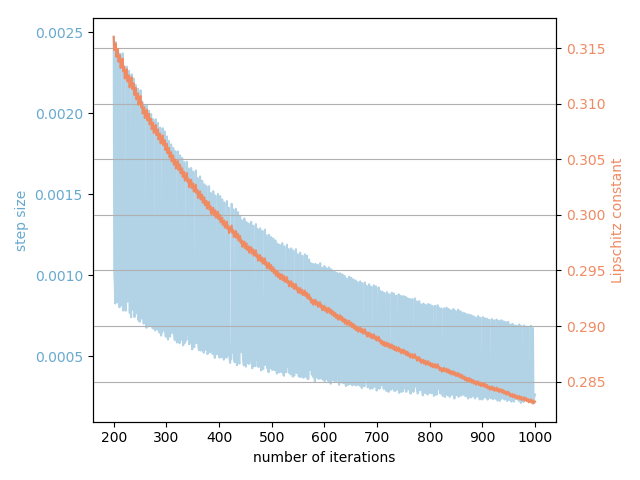
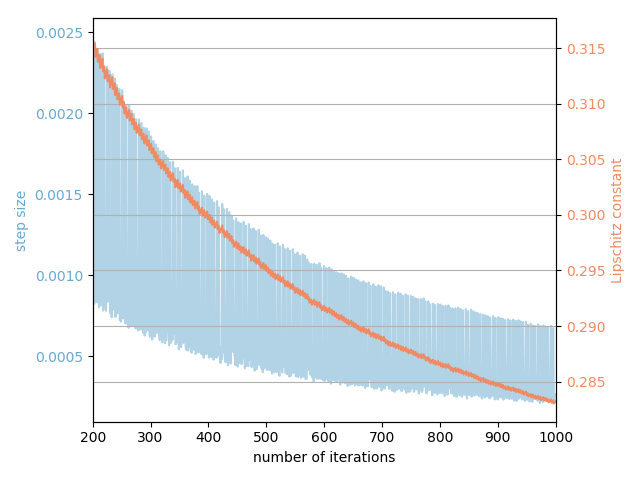
update doc

diff --git a/searchindex.js b/searchindex.js
@@ -1,1 +1,1 @@
-Search.setIndex({docnames:["auto_examples/index","auto_examples/plot_accelerated","auto_examples/plot_fw_stepsize","auto_examples/plot_group_lasso","auto_examples/plot_overlapping_group_lasso","auto_examples/plot_saga_vs_svrg","auto_examples/plot_sparse_nuclear_norm","auto_examples/plot_tv_deblurring","datasets","frank_wolfe","generated/copt.datasets.load_covtype","generated/copt.datasets.load_img1","generated/copt.datasets.load_rcv1","generated/copt.datasets.load_url","generated/copt.minimize_APGD","generated/copt.minimize_FW","generated/copt.minimize_PDHG","generated/copt.minimize_PFW_L1","generated/copt.minimize_PGD","generated/copt.minimize_SAGA","generated/copt.minimize_SVRG","generated/copt.minimize_TOS","generated/copt.minimize_VRTOS","generated/copt.utils.GroupL1","generated/copt.utils.HuberLoss","generated/copt.utils.L1Ball","generated/copt.utils.L1Norm","generated/copt.utils.LogLoss","generated/copt.utils.SquareLoss","generated/copt.utils.TotalVariation2D","generated/copt.utils.TraceBall","generated/copt.utils.TraceNorm","incremental","index","loss_functions","proximal_gradient","proximal_splitting","source/copt","source/modules"],envversion:{"sphinx.domains.c":1,"sphinx.domains.changeset":1,"sphinx.domains.cpp":1,"sphinx.domains.javascript":1,"sphinx.domains.math":2,"sphinx.domains.python":1,"sphinx.domains.rst":1,"sphinx.domains.std":1,"sphinx.ext.intersphinx":1,"sphinx.ext.todo":1,sphinx:55},filenames:["auto_examples/index.rst","auto_examples/plot_accelerated.rst","auto_examples/plot_fw_stepsize.rst","auto_examples/plot_group_lasso.rst","auto_examples/plot_overlapping_group_lasso.rst","auto_examples/plot_saga_vs_svrg.rst","auto_examples/plot_sparse_nuclear_norm.rst","auto_examples/plot_tv_deblurring.rst","datasets.rst","frank_wolfe.rst","generated/copt.datasets.load_covtype.rst","generated/copt.datasets.load_img1.rst","generated/copt.datasets.load_rcv1.rst","generated/copt.datasets.load_url.rst","generated/copt.minimize_APGD.rst","generated/copt.minimize_FW.rst","generated/copt.minimize_PDHG.rst","generated/copt.minimize_PFW_L1.rst","generated/copt.minimize_PGD.rst","generated/copt.minimize_SAGA.rst","generated/copt.minimize_SVRG.rst","generated/copt.minimize_TOS.rst","generated/copt.minimize_VRTOS.rst","generated/copt.utils.GroupL1.rst","generated/copt.utils.HuberLoss.rst","generated/copt.utils.L1Ball.rst","generated/copt.utils.L1Norm.rst","generated/copt.utils.LogLoss.rst","generated/copt.utils.SquareLoss.rst","generated/copt.utils.TotalVariation2D.rst","generated/copt.utils.TraceBall.rst","generated/copt.utils.TraceNorm.rst","incremental.rst","index.rst","loss_functions.rst","proximal_gradient.rst","proximal_splitting.rst","source/copt.rst","source/modules.rst"],objects:{"":{copt:[37,0,0,"-"]},"copt.datasets":{load_covtype:[37,1,1,""],load_criteo:[37,1,1,""],load_img1:[37,1,1,""],load_kdd10:[37,1,1,""],load_kdd12:[37,1,1,""],load_madelon:[37,1,1,""],load_rcv1:[37,1,1,""],load_url:[37,1,1,""]},"copt.frank_wolfe":{max_active:[37,2,1,""],minimize_FW:[37,1,1,""],minimize_PFW_L1:[37,1,1,""]},"copt.proxgrad":{minimize_APGD:[37,1,1,""],minimize_PGD:[37,1,1,""]},"copt.randomized":{minimize_SAGA:[37,1,1,""],minimize_SVRG:[37,1,1,""],minimize_VRTOS:[37,1,1,""]},"copt.splitting":{minimize_PDHG:[37,1,1,""],minimize_TOS:[37,1,1,""]},"copt.tv_prox":{c_prox_tv2d:[37,1,1,""],prox_tv1d:[37,1,1,""],prox_tv1d_cols:[37,2,1,""],prox_tv1d_rows:[37,2,1,""],prox_tv2d:[37,1,1,""],tv2d_linear_operator:[37,1,1,""]},"copt.utils":{FusedLasso:[37,3,1,""],GroupL1:[37,3,1,""],HuberLoss:[37,3,1,""],L1Ball:[37,3,1,""],L1Norm:[37,3,1,""],LogLoss:[37,3,1,""],SimplexConstraint:[37,3,1,""],SquareLoss:[37,3,1,""],TotalVariation2D:[37,3,1,""],Trace:[37,3,1,""],TraceBall:[37,3,1,""],TraceNorm:[37,3,1,""],euclidean_proj_l1ball:[37,1,1,""],euclidean_proj_simplex:[37,1,1,""],get_max_lipschitz:[37,1,1,""],init_lipschitz:[37,1,1,""],safe_sparse_add:[37,1,1,""]},"copt.utils.FusedLasso":{prox:[37,4,1,""],prox_1_factory:[37,4,1,""],prox_2_factory:[37,4,1,""]},"copt.utils.GroupL1":{__init__:[23,4,1,""],prox:[37,4,1,""],prox_factory:[37,4,1,""]},"copt.utils.HuberLoss":{__init__:[24,4,1,""],f_grad:[37,4,1,""],lipschitz:[37,2,1,""]},"copt.utils.L1Ball":{__init__:[25,4,1,""],lmo:[37,4,1,""],prox:[37,4,1,""]},"copt.utils.L1Norm":{__init__:[26,4,1,""],prox:[37,4,1,""],prox_factory:[37,4,1,""]},"copt.utils.LogLoss":{Hessian:[37,4,1,""],__init__:[27,4,1,""],f_grad:[37,4,1,""],lipschitz:[37,2,1,""],max_lipschitz:[37,2,1,""],partial_deriv:[37,2,1,""]},"copt.utils.SimplexConstraint":{prox:[37,4,1,""]},"copt.utils.SquareLoss":{__init__:[28,4,1,""],f_grad:[37,4,1,""],lipschitz:[37,2,1,""]},"copt.utils.TotalVariation2D":{__init__:[29,4,1,""],prox:[37,4,1,""]},"copt.utils.TraceBall":{__init__:[30,4,1,""],is_separable:[37,2,1,""],lmo:[37,4,1,""],prox:[37,4,1,""],prox_factory:[37,4,1,""]},"copt.utils.TraceNorm":{__init__:[31,4,1,""],is_separable:[37,2,1,""],prox:[37,4,1,""],prox_factory:[37,4,1,""]},copt:{datasets:[37,0,0,"-"],frank_wolfe:[37,0,0,"-"],minimize_APGD:[14,1,1,""],minimize_FW:[15,1,1,""],minimize_PDHG:[16,1,1,""],minimize_PFW_L1:[17,1,1,""],minimize_PGD:[18,1,1,""],minimize_SAGA:[19,1,1,""],minimize_SVRG:[20,1,1,""],minimize_TOS:[21,1,1,""],minimize_VRTOS:[22,1,1,""],proxgrad:[37,0,0,"-"],randomized:[37,0,0,"-"],splitting:[37,0,0,"-"],tv_prox:[37,0,0,"-"],utils:[37,0,0,"-"]}},objnames:{"0":["py","module","Python module"],"1":["py","function","Python function"],"2":["py","attribute","Python attribute"],"3":["py","class","Python class"],"4":["py","method","Python method"]},objtypes:{"0":"py:module","1":"py:function","2":"py:attribute","3":"py:class","4":"py:method"},terms:{"35th":[21,37],"67a9cf":2,"boolean":[14,15,16,18,19,20,21,22,37],"break":[19,20,37],"case":[5,37],"class":[23,24,25,26,27,28,29,30,31,37],"default":37,"float":[7,14,15,18,19,20,21,22,23,26,37],"function":[1,3,5,14,15,16,18,19,20,21,22,25,27,37],"import":[1,2,3,4,5,6,7,14,15,16,18,19,20,21,22,37],"int":[6,14,16,18,19,20,21,22,37],"return":[2,3,4,6,7,10,12,13,14,15,16,18,19,20,21,22,27,37],"true":[3,4,6,7,12,13,14,15,16,17,18,19,20,21,22,37],TOS:[4,6],The:[3,5,14,15,16,18,19,20,21,22,27,37],These:[33,37],With:[21,37],__call__:[],__doc__:6,__init__:[23,24,25,26,27,28,29,30,31],a_i:[19,20,22,37],aaron:[20,37],abov:[15,37],abs:[6,7,37],absolut:[25,26,37],acceler:[0,14,33,37],accept:[15,16,37],access:[14,15,18,19,34,37],account:5,accur:[23,24,25,26,27,28,29,30,31],achiev:[3,4,6],adapt:[4,7,15,21,37],adato:7,advanc:[19,20,37],after:4,aka:[30,31,37],algebra:37,algorithm:[2,5,14,15,16,18,19,20,21,22,37],all:0,all_beta:[3,4,6,7],all_trace_l:[3,4,6,7],all_trace_ls_tim:[4,6,7],all_trace_nol:[3,4,6,7],all_trace_nols_tim:[4,6,7],all_trace_pdhg:[4,6,7],all_trace_pdhg_nol:[4,6],all_trace_pdhg_nols_tim:[4,6],all_trace_pdhg_tim:[4,6,7],along:37,alpha:[2,14,16,17,19,20,21,22,23,24,25,26,27,28,29,30,31,37],alreadi:[2,34],also:37,altern:37,alvaro:37,amir:[14,18,37],analysi:[21,37],antonin:[16,37],api:[17,19,33,37],appear:37,append:[2,3,4,6,7],appendix:4,appli:37,applic:[14,16,18,21,37],arang:[2,3,4,5],arg:[21,37],argmin_:[15,20,22,37],argmin_x:37,argument:[15,16,18,21,37],arrai:[3,4,6,7,10,12,13,14,15,16,18,19,20,21,22,37],art:33,arxiv:[15,22,37],astyp:[6,7],asynchron:[20,22,37],attribut:[14,15,16,18,19,20,21,22,24,27,28,30,31,37],augment:[19,20,37],auto_examples_jupyt:0,auto_examples_python:0,averag:[19,20,37],ax1:2,ax2:2,axes:2,axi:[2,7],b_i:[19,20,22,27,37],bach:[20,37],backtrack:[1,2,3,4,6,7,14,15,16,17,18,21,37],backtracking_factor:[14,18,21,37],ball:[17,25,37],barbero:37,barrier:[19,20,37],base:[14,18,37],bbox_to_anchor:[3,6],beck:[14,18,37],below:[19,20,22,37],berkelei:37,beta:[3,4,6,7,16,20,37],better:37,between:[4,5],bianp:[27,37],binari:[10,12,13,37],blck:6,block:[4,6,23,37],blur:7,blur_matrix:7,bold:[1,5],bool:[10,12,13,19,20,22,37],bottom:[3,4,6,7],bound:2,bridg:37,c_prox_tv2d:37,call:[],callabl:[14,15,16,18,21,27,37],callback:[1,2,3,4,5,6,7,14,15,16,17,18,19,20,21,22,37],can:[19,20,21,22,37],casotto:[22,37],categor:33,caus:[14,15,16,18,19,20,21,22,37],cb_adato:7,cb_apgd:1,cb_pdhg:[4,7],cb_pdhg_nol:4,cb_pgd:1,cb_saga:5,cb_svrg:5,cb_to:[3,4,6,7],cb_tosl:[3,4,6],cdot:[28,37],center:[4,7],chambol:[16,37],chandra:37,chang:[17,19,37],check:[10,12,13,37],cjlin:[10,12,13,37],classif:[2,10,12,13,37],click:[1,2,3,4,5,6,7],clip:2,cmap:[6,7],code:[0,1,2,3,4,5,6,7],coeffici:[18,37],color:2,column:37,come:[27,37],commun:[14,18,37],compact:[15,37],comparison:[1,3,4,5,7],complex:37,composit:[16,19,20,37],comput:[3,4,5,6,7,37],condat:[16,37],confer:[21,37],constant:[2,15,26,37],constat:[23,37],construct:[1,2,3,5],contain:[33,37],content:38,conveni:34,converg:[1,16,19,20,22,37],convex:[14,15,16,18,20,37],copi:[],copt:[1,2,3,4,5,6,7],correl:4,cov:6,creat:4,criteo:37,criterion:[19,20,22,37],csie:[10,12,13,37],csr:[10,12,13,37],current:[15,18,37],d_t:2,damek:[21,37],data:[3,4,6,7,19,20,22,37],dataset:[1,2,4,5,20,38],davi:[21,37],debug:[19,20,22,37],def:[2,3,4,6,7],defazio:[20,37],defin:[2,15,27,28,34,37],delta:[24,37],denois:37,denot:37,densiti:3,depend:33,deploy:33,deprec:37,deriv:[20,22,27,28,37],derivatives_logist:[27,37],descent:[0,14,18,33,37],describ:[14,15,16,18,19,20,21,22,37],descript:[14,15,16,18,19,20,21,22,37],dev:[],diff:7,differ:[3,4,6,7,33],differenti:[14,15,37],dimens:37,dimension:[29,37],direct:37,disproportion:2,doe:37,dot:[3,4,6,7,27,37],dougla:37,download:[0,1,2,3,4,5,6,7,10,12,13,37],draft:[27,37],dual:[7,16,33,37],duchi:37,duchisishch08:37,dykstra:37,each:[14,16,18,21,37],easi:33,easili:37,edg:33,edu:[10,12,13,37],ef8a62:2,effect:0,effici:37,eigsh:2,ellipsi:[],emphasi:33,enter:3,enumer:[3,4,6,7],epsilon:6,equal:[25,37],ergod:[16,37],estim:[0,15,19,20,21,22,37],euclidean:[28,37],euclidean_proj_l1bal:37,euclidean_proj_simplex:37,evalu:[1,5,27,28,37],evolv:2,exact:2,exact_l:2,exampl:[1,2,3,4,5,6,7,18,37],exist:37,exit:[14,15,16,18,19,20,21,22,37],expect:33,experi:4,experiment:[17,19,37],extra:[19,20,21,22,37],eye:6,f_deriv:[19,20,22,37],f_grad:[1,2,3,4,6,7,14,15,16,17,18,21,37],f_l:2,fabian:[15,19,20,21,22,37],face:7,fals:[1,3,4,6,7,15,16,18,20,21,37],fast:[20,37],fatra:[22,37],featur:[2,3,4,6,17,37],few:33,fig:[2,3,4],figlegend:[3,4,6,7],file:[10,12,13,37],first:[2,4,16,37],fit_transform:4,flag:[14,15,16,18,19,20,21,22,37],fmin:[1,3,4,5,6,7],focu:2,follow:34,fontweight:[1,5],form:[14,15,16,18,19,20,21,22,37],found:[10,12,13,37],frac:[27,28,37],frameon:[3,4,6,7],franci:[20,37],frank:[2,15,33,37],frank_wolf:38,free:[15,37],freq:37,from:[2,3,4,6,7,14,16,18,19,20,21,22,27,37],full:[1,2,3,4,5,6,7,12,37],fuse:37,fusedlasso:37,g_prox:7,galleri:[0,1,2,3,4,5,6,7],gamma:[2,37],gaussian_filt:7,gauthier:[21,37],gcf:[3,4,6,7],gener:[0,1,2,3,4,5,6,7,19,20,22,33,37],get_max_lipschitz:37,gidel:[21,37],given:[15,19,20,22,37],googl:[],gradient:[0,5,7,14,15,16,18,19,20,21,22,33,37],grai:7,gray_r:6,grid:[1,2,3,4,5,6,7],ground:3,ground_truth:[3,4],group:[0,18,23,37],groupl1:[3,4,37],guess:[14,15,16,18,21,37],h_lipschitz:[4,6,7,21,37],h_prox:7,handl:2,has:[20,37],have:[2,14,15,18,19,20,22,27,37],help:[23,24,25,26,27,28,29,30,31],here:[1,2,3,4,5,6,7],hessian:[2,27,37],high:37,higher:[20,22,37],home:[],how:2,howev:[34,37],html:[10,12,13,27,37],http:[10,12,13,27,37],huber:[24,37],huberloss:[6,37],hybrid:[7,16,33,37],icml:[15,37],ieee:37,imag:[7,11,37],img:7,implement:[3,5,20,33,37],improv:[1,20,37],imres:7,imshow:[6,7],increment:[20,37],indexerror:[],indic:[14,15,16,18,19,20,21,22,25,37],infin:[25,37],inform:[19,20,37],init_lipschitz:37,initi:[14,15,16,18,21,23,24,25,26,27,28,29,30,31,37],input:[15,27,37],insid:[16,37],instanti:2,integ:[],intern:[21,37],interpol:[6,7],involv:[16,37],ipynb:[1,2,3,4,5,6,7],is_separ:37,iter:[2,3,4,5,6,7,14,15,16,18,21,37],its:[3,15,19,21,33,37],jaggi:[15,37],jduchi:37,john:37,journal:[16,37],julien:[19,20,37],jupyt:[0,1,2,3,4,5,6,7],kdd10:37,kdd12:37,kdd2010:37,kdd2012:37,kilian:[22,37],known:[16,21,37],l1_ball:2,l1ball:[2,37],l1norm:[5,6,37],label:[1,2,4,5,10,12,13,27,37],labelcolor:2,lacost:[19,20,37],lambda:[3,4,5,6,7],langl:[15,37],larg:[2,33],lasso:[0,18,23,37],last:2,laurent:[16,37],learn:[21,37],least:4,leblond:[19,20,37],legend:[1,5],len:[2,4,5,6],leq:[27,37],less:[25,37],letter:37,level:[14,16,18,19,20,21,22,37],librari:33,libsvm:[10,12,13,37],libsvmtool:[10,12,13,37],like:[14,15,16,17,18,19,20,21,37],linalg:[2,6,7],line:[2,3,4,6,14,18,21,37],linear:[15,16,25,37],linearli:[19,37],linearoper:2,lipschitz:[1,2,3,4,6,7,15,37],lipschitzian:[16,37],list:[23,37],lmo:[2,15,25,37],load:[11,37],load_covtyp:37,load_criteo:37,load_img1:37,load_kdd10:37,load_kdd12:37,load_madelon:37,load_npz:7,load_rcv1:37,load_url:37,loc:[3,6],local:[],log:[1,3,4,5,6,7,27,37],logist:[1,5,27,37],logloss:[1,2,4,5,37],logspac:4,loss:[3,4,6,7,14,19,23,24,27,28,37],low:0,lower:[4,7],ls_sol:2,machin:[21,37],madelon:37,make:4,make_classif:2,mani:37,map:[19,20,22,37],marc:[14,18,37],marker:[3,4,6,7],markers:[3,4,6,7],markeveri:[3,4,6,7],martin:[15,37],mathcal:[15,37],mathemat:[16,33,37],matplotlib:2,matri:37,matrix:[0,4,10,12,13,16,37],mattia:[22,37],matvec:2,max:[4,7,37],max_act:37,max_it:[2,3,4,5,6,7,14,15,16,17,18,19,20,21,22,29,37],max_iter_backtrack:[14,18,21,37],max_iter_l:[16,37],max_lipschitz:[5,37],maximum:[14,16,18,19,20,21,22,37],maxit:[6,7],md5:[10,12,13,37],md5_check:[10,12,13,37],member:[19,20,22,37],messag:[14,15,16,18,19,20,21,22,37],method:[2,5,15,16,19,20,21,22,23,24,25,26,27,28,29,30,31,33,37],might:[19,20,22,37],million:37,min:[1,3,4,5,6,7],min_:[25,37],min_w:37,minim:[15,37],minimize_apgd:[1,37],minimize_fw:[2,37],minimize_pdhg:[4,7,37],minimize_pfw_l1:37,minimize_pgd:[1,3,37],minimize_saga:[5,37],minimize_scalar:2,minimize_svrg:[5,37],minimize_to:[4,6,7,37],minimize_vrto:37,minimize_x:[14,16,18,19,21,37],minu:[3,4,6,7],minut:[1,2,3,4,5,6,7],misc:7,model:4,modul:38,modular:[33,37],most:[],multidimension:37,multipli:[5,6,23,26,37],multivariate_norm:6,n_col:[7,11,37],n_featur:[1,2,3,4,5,6,7,17,18,37],n_job:[20,22,37],n_row:[7,11,37],n_sampl:[1,2,3,4,5,6,7,19,20,22,37],ncol:[3,4,6,7],ndarrai:[16,19,20,22,37],ndimag:7,nearest:[6,7],net:[27,37],neural:[19,20,37],newaxi:[],nip:[19,20,37],noisi:7,non:[16,20,21,34,37],none:[3,4,6,7,14,15,16,17,18,19,20,21,22,37],nonsmooth:[19,20,22,37],nonzero:3,norm:[5,19,20,22,26,28,29,30,31,37],note:[15,37],notebook:[0,1,2,3,4,5,6,7],npz:7,ntu:[10,12,13,37],nuclear:[30,31,37],number:[2,5,14,16,18,19,20,21,22,37],numpi:[1,2,3,4,5,6,7,10,12,13,37],object:[3,4,5,6,7,14,15,16,18,19,20,21,22,37],often:37,one:37,onli:[10,12,13,15,16,21,37],onto:[30,37],oper:[3,4,7,14,16,18,19,21,22,33,34,37],opt:[19,20,22,33,37],optim:[1,2,3,5,14,15,16,18,19,20,21,22,37],optimis:37,optimizeresult:[14,15,16,18,19,20,21,22,37],optimum:[3,4,6,7],option:[14,15,16,18,19,20,21,22,37],oracl:[15,37],order:[16,37],org:37,origin:[20,37],other:[14,15,16,18,19,20,21,22,37],otherwis:[2,25,37],out:[2,3,4,6,7],out_img:[3,4,6,7],output:[14,16,18,21,37],over:[2,25,37],overlap:0,own:34,packag:38,pairwis:[17,33,37],parallel:[19,20,37],paramet:[3,4,6,7,10,12,13,14,15,16,18,19,20,21,22,23,26,37],parametr:[19,37],partial_deriv:[5,37],pass:[19,20,21,22,37],pdf:37,pdhg:4,pdhg_nol:4,pedregosa:[15,19,20,21,22,37],pen1:[22,37],pen2:[22,37],penalti:[23,37],perform:[14,18,21,27,33,37],pgd:3,pgd_l:3,plot:[1,2,3,4,5,6,7,19,20,22,37],plot_acceler:1,plot_fw_steps:2,plot_group_lasso:3,plot_nol:[3,4,6],plot_overlapping_group_lasso:4,plot_pdhg:[4,7],plot_pdhg_nol:4,plot_saga_vs_svrg:5,plot_sparse_nuclear_norm:6,plot_to:[3,4,6,7],plot_tos_nol:7,plot_tv_deblur:7,plt:[1,2,3,4,5,6,7],pock:[16,37],point:[19,20,22,37],posit:37,possibl:[16,21,34,37],preprint:[15,22,37],preprocess:4,primal:[7,16,33,37],print:[3,4,6,7,19,20,22,37],problem:[1,3,5,14,15,16,18,19,20,21,22,25,37],procedur:[14,18,21,37],proceed:[21,37],process:[14,18,19,20,37],product:[27,37],program:[16,37],progress:[5,33],project:[10,12,13,15,30,37],prox:[3,4,5,6,14,18,19,20,37],prox_1:[16,21,22,37],prox_1_arg:[21,37],prox_1_factori:37,prox_2:[16,21,22,37],prox_2_factori:37,prox_factori:[5,37],prox_tv1d:37,prox_tv1d_col:[7,37],prox_tv1d_row:[7,37],prox_tv2d:37,proxgrad:38,proxim:[3,14,16,18,19,21,33,34,37],pseudo:[29,37],pure:33,purpos:33,pylab:[1,2,3,4,5,6,7],python:[0,1,2,3,4,5,6,7,33],rachford:37,radiu:37,rand:[1,3,5,6],randint:4,randn:[1,3,4,5,6,7],random:[1,3,4,5,6,7,38],random_st:2,rang:[3,4,6],rangl:[15,37],rank:0,rate:[16,37],ravel:[6,7],rcv1:[12,37],readi:34,recent:[],recoveri:[14,18,37],reduc:[5,22,33,37],reduct:37,refer:[5,14,15,16,18,19,20,21,22,27,37],regress:[1,5],regular:[0,4,5,6,18,37],rel:[3,4,6],remi:[19,20,37],repres:[14,15,16,18,19,20,21,22,37],res:[14,15,16,18,21,37],reshap:[6,7],respect:[20,37],result:[1,3,4,5,6,7,14,15,16,18,19,20,21,22,37],result_apgd:1,result_pgd:1,result_saga:5,result_svrg:5,return_gradi:[15,16,21,37],return_singular_vector:[6,7],revisit:[15,37],right:2,rough:33,routin:[15,37],row:37,run:[1,2,3,4,5,6,7],safe_sparse_add:37,saga:[0,19,20,22,33,37],same:[2,15,37],sampl:[2,11,37],scalabl:[19,20,37],scalar:37,scale:[3,4,7,33,37],scatterpoint:[3,4,6,7],scheme:[21,37],scipi:[2,3,6,7,10,12,13,14,15,16,18,19,20,21,22,33,37],script:[1,2,3,4,5,6,7],search:[2,3,4,6,14,18,21,37],second:[1,2,3,4,5,6,7],see:[14,15,16,18,19,20,21,22,23,24,25,26,27,28,29,30,31,37],seed:[1,3,4,5,6,7],self:[23,24,25,26,27,28,29,30,31],set:[4,15,21,37],set_titl:[3,4,6,7],set_xlabel:[2,3,4,6,7],set_xlim:[4,6,7],set_xtick:[3,4,6,7],set_ylabel:[2,3,4,6,7],set_ylim:[3,4,6,7],set_yscal:[3,4,6,7],set_ytick:[3,4,6,7],shai:37,shalev:37,shape:[2,6,7,29,30,31,37],share:2,sharei:[3,4,6,7],should:[15,16,27,37],show:[1,2,3,4,5,6,7],showcas:1,shwartz:37,sigma:[3,6,27,37],sigma_2:6,sigma_hat:6,sigmoid:[27,37],sign:4,signal:[14,18,37],signatur:[23,24,25,26,27,28,29,30,31],similar:33,simon:[19,20,37],simplex:37,simplexconstraint:37,sinc:2,singer:37,singl:[18,37],singular:[30,31,37],size:[0,3,4,6,7,15,18,19,20,21,22,37],sklearn:[2,4],slice:[],slightli:2,smooth:[16,21,34,37],snapshot:5,solut:[14,15,16,18,19,20,21,22,37],solv:[5,14,18,19,20,21,22,25,37],solver:[3,4,6,7],some:[3,4,6,19,20,22,33,37],sometim:[5,37],sort:37,sourc:[0,1,2,3,4,5,6,7,10,11,12,13,14,15,16,17,18,19,20,21,22,23,24,25,26,27,28,29,30,31,37],spars:[0,2,3,5,7,10,12,13,15,16,20,37],sphinx:[0,1,2,3,4,5,6,7],splinalg:[2,6,7],split:[4,7,16,21,22,33,38],sqrt:4,squar:[4,28,37],squareloss:[3,7,37],sra:37,standardscal:4,start:[14,18,19,20,21,22,37],state:33,step:[0,3,4,6,7,15,19,20,21,22,37],step_siz:[1,2,3,4,5,6,7,14,16,18,19,20,21,22,37],step_size2:[4,7,16,37],stepsiz:37,still:37,stochast:[5,19,20,33,37],stop:[19,20,22,37],strategi:0,strongli:[20,37],submodul:38,suboptim:[1,5],subplot:[2,3,4,6,7],subplots_adjust:[3,4,6,7],subset:[12,37],success:[14,15,16,18,19,20,21,22,37],successfulli:[14,15,16,18,19,20,21,22,37],sum:[5,7,25,26,30,31,37],sum_:[19,20,22,27,37],sum_i:[26,37],support:[20,37],suvrit:37,svd:[6,7],svrg:[0,33],synthet:6,system:[19,20,37],take:[10,12,13,15,18,37],teboul:[14,18,37],tend:2,term:[16,34,37],termin:[14,15,16,18,19,20,21,22,37],than:[20,22,25,37],theori:[16,37],thi:[4,5,10,12,13,15,16,17,19,20,21,22,23,25,33,37],thoma:[16,37],thread:[20,22,37],three:[4,7,21,22,33,37],threshold:6,through:[3,19,20,22,34,37],tick_param:2,tight_layout:2,time:[1,2,3,4,5,6,7],titl:[1,5],tmp1:7,tmp2:7,toi:2,tol:[1,3,4,5,6,7,14,15,16,17,18,19,20,21,22,29,37],toler:[3,4,6,19,20,22,37],tos:[4,6],tos_l:[4,6],total:[0,1,2,3,4,5,6,29,37],totalvariation2d:37,trace:[1,3,4,5,6,7,19,20,22,30,31,37],trace_func:[19,20,22,37],trace_fx:[1,5],trace_l:[3,4,6,7],trace_lipschitz:2,trace_nol:[3,4,6,7],trace_pdhg:[4,7],trace_pdhg_nol:4,trace_step_s:2,trace_tim:[4,6,7,19,20,22,37],trace_x:[3,4,6,7],traceback:[],tracebal:37,tracenorm:[6,37],track:5,truth:3,tushar:37,tv2d_linear_oper:37,tv_prox:[7,38],twinx:2,two:[5,37],type:[14,15,16,18,19,20,21,22,23,24,25,26,27,28,29,30,31,37],url:[10,13,37],use:[20,22,34,37],useful:[19,20,22,37],using:37,usr:[],util:[1,2,3,4,5,6,7,38],valid:[],valu:[3,4,6,7,10,12,13,14,15,16,18,21,25,26,27,30,31,37],varianc:[5,22,33,37],variant:[19,33,37],variat:[0,21,29,37],vector:[3,15,27,37],verbos:[3,4,6,7,14,15,16,17,18,19,20,21,22,37],verifi:[27,37],version:[10,12,13,37],vrto:[22,37],w_i:37,when:[15,16,27,37],whenev:[19,20,22,37],where:[14,15,16,18,19,21,27,28,37],whether:[10,12,13,14,18,19,20,21,22,37],which:[3,14,15,16,18,19,20,21,22,37],without:[3,4,6],wolf:[2,15,33,37],work:33,wotao:[21,37],written:33,www:[10,12,13,37],x_i:[26,37],xlabel:[1,5],xlim:[1,3,4,5,6,7],xxx:[14,18,37],yin:[21,37],ylabel:[1,5],ylim:[1,5],ymin:[1,5],yoram:37,your:34,yscale:[1,5],zero:[1,2,3,4,5,6,7],zip:0},titles:["Examples","Effect of acceleration in gradient descent","Step-size strategies for FW","Group Lasso regularization","Group lasso with overlap","SAGA vs SVRG","Estimating a sparse and low rank matrix","Total variation regularization","Datasets","Frank-Wolfe","copt.datasets.load_covtype","copt.datasets.load_img1","copt.datasets.load_rcv1","copt.datasets.load_url","copt.minimize_APGD","copt.minimize_FW","copt.minimize_PDHG","copt.minimize_PFW_L1","copt.minimize_PGD","copt.minimize_SAGA","copt.minimize_SVRG","copt.minimize_TOS","copt.minimize_VRTOS","copt.utils.GroupL1","copt.utils.HuberLoss","copt.utils.L1Ball","copt.utils.L1Norm","copt.utils.LogLoss","copt.utils.SquareLoss","copt.utils.TotalVariation2D","copt.utils.TraceBall","copt.utils.TraceNorm","Incremental methods","Welcome to copt!","Loss functions","Gradient-based methods","Proximal splitting","copt package","copt"],titleterms:{"function":34,acceler:1,algorithm:33,base:35,content:37,copt:[10,11,12,13,14,15,16,17,18,19,20,21,22,23,24,25,26,27,28,29,30,31,33,37,38],dataset:[8,10,11,12,13,37],descent:1,effect:1,estim:6,exampl:0,frank:9,frank_wolf:37,gradient:[1,35],group:[3,4],groupl1:23,huberloss:24,increment:32,l1ball:25,l1norm:26,lasso:[3,4],load_covtyp:10,load_img1:11,load_rcv1:12,load_url:13,logloss:27,loss:34,low:6,matrix:6,method:[32,35],minimize_apgd:14,minimize_fw:15,minimize_pdhg:16,minimize_pfw_l1:17,minimize_pgd:18,minimize_saga:19,minimize_svrg:20,minimize_to:21,minimize_vrto:22,modul:37,optim:33,overlap:4,packag:37,philosophi:33,proxgrad:37,proxim:36,random:37,rank:6,refer:4,regular:[3,7],saga:5,size:2,spars:6,split:[36,37],squareloss:28,step:2,strategi:2,submodul:37,svrg:5,total:7,totalvariation2d:29,tracebal:30,tracenorm:31,tv_prox:37,util:[23,24,25,26,27,28,29,30,31,37],variat:7,welcom:33,wolf:9}})
+Search.setIndex({docnames:["auto_examples/index","auto_examples/plot_accelerated","auto_examples/plot_fw_stepsize","auto_examples/plot_group_lasso","auto_examples/plot_overlapping_group_lasso","auto_examples/plot_saga_vs_svrg","auto_examples/plot_sparse_nuclear_norm","auto_examples/plot_tv_deblurring","datasets","frank_wolfe","generated/copt.datasets.load_covtype","generated/copt.datasets.load_img1","generated/copt.datasets.load_rcv1","generated/copt.datasets.load_url","generated/copt.minimize_APGD","generated/copt.minimize_FW","generated/copt.minimize_PDHG","generated/copt.minimize_PFW_L1","generated/copt.minimize_PGD","generated/copt.minimize_SAGA","generated/copt.minimize_SVRG","generated/copt.minimize_TOS","generated/copt.minimize_VRTOS","generated/copt.utils.GroupL1","generated/copt.utils.HuberLoss","generated/copt.utils.L1Ball","generated/copt.utils.L1Norm","generated/copt.utils.LogLoss","generated/copt.utils.SquareLoss","generated/copt.utils.TotalVariation2D","generated/copt.utils.TraceBall","generated/copt.utils.TraceNorm","incremental","index","loss_functions","proximal_gradient","proximal_splitting","source/copt","source/modules"],envversion:{"sphinx.domains.c":1,"sphinx.domains.changeset":1,"sphinx.domains.cpp":1,"sphinx.domains.javascript":1,"sphinx.domains.math":2,"sphinx.domains.python":1,"sphinx.domains.rst":1,"sphinx.domains.std":1,"sphinx.ext.intersphinx":1,"sphinx.ext.todo":1,sphinx:55},filenames:["auto_examples/index.rst","auto_examples/plot_accelerated.rst","auto_examples/plot_fw_stepsize.rst","auto_examples/plot_group_lasso.rst","auto_examples/plot_overlapping_group_lasso.rst","auto_examples/plot_saga_vs_svrg.rst","auto_examples/plot_sparse_nuclear_norm.rst","auto_examples/plot_tv_deblurring.rst","datasets.rst","frank_wolfe.rst","generated/copt.datasets.load_covtype.rst","generated/copt.datasets.load_img1.rst","generated/copt.datasets.load_rcv1.rst","generated/copt.datasets.load_url.rst","generated/copt.minimize_APGD.rst","generated/copt.minimize_FW.rst","generated/copt.minimize_PDHG.rst","generated/copt.minimize_PFW_L1.rst","generated/copt.minimize_PGD.rst","generated/copt.minimize_SAGA.rst","generated/copt.minimize_SVRG.rst","generated/copt.minimize_TOS.rst","generated/copt.minimize_VRTOS.rst","generated/copt.utils.GroupL1.rst","generated/copt.utils.HuberLoss.rst","generated/copt.utils.L1Ball.rst","generated/copt.utils.L1Norm.rst","generated/copt.utils.LogLoss.rst","generated/copt.utils.SquareLoss.rst","generated/copt.utils.TotalVariation2D.rst","generated/copt.utils.TraceBall.rst","generated/copt.utils.TraceNorm.rst","incremental.rst","index.rst","loss_functions.rst","proximal_gradient.rst","proximal_splitting.rst","source/copt.rst","source/modules.rst"],objects:{"":{copt:[37,0,0,"-"]},"copt.datasets":{load_covtype:[37,1,1,""],load_criteo:[37,1,1,""],load_img1:[37,1,1,""],load_kdd10:[37,1,1,""],load_kdd12:[37,1,1,""],load_madelon:[37,1,1,""],load_rcv1:[37,1,1,""],load_url:[37,1,1,""]},"copt.frank_wolfe":{max_active:[37,2,1,""],minimize_FW:[37,1,1,""],minimize_PFW_L1:[37,1,1,""]},"copt.proxgrad":{minimize_APGD:[37,1,1,""],minimize_PGD:[37,1,1,""]},"copt.randomized":{minimize_SAGA:[37,1,1,""],minimize_SVRG:[37,1,1,""],minimize_VRTOS:[37,1,1,""]},"copt.splitting":{minimize_PDHG:[37,1,1,""],minimize_TOS:[37,1,1,""]},"copt.tv_prox":{c_prox_tv2d:[37,1,1,""],prox_tv1d:[37,1,1,""],prox_tv1d_cols:[37,2,1,""],prox_tv1d_rows:[37,2,1,""],prox_tv2d:[37,1,1,""],tv2d_linear_operator:[37,1,1,""]},"copt.utils":{FusedLasso:[37,3,1,""],GroupL1:[37,3,1,""],HuberLoss:[37,3,1,""],L1Ball:[37,3,1,""],L1Norm:[37,3,1,""],LogLoss:[37,3,1,""],SimplexConstraint:[37,3,1,""],SquareLoss:[37,3,1,""],TotalVariation2D:[37,3,1,""],Trace:[37,3,1,""],TraceBall:[37,3,1,""],TraceNorm:[37,3,1,""],euclidean_proj_l1ball:[37,1,1,""],euclidean_proj_simplex:[37,1,1,""],get_max_lipschitz:[37,1,1,""],init_lipschitz:[37,1,1,""],safe_sparse_add:[37,1,1,""]},"copt.utils.FusedLasso":{prox:[37,4,1,""],prox_1_factory:[37,4,1,""],prox_2_factory:[37,4,1,""]},"copt.utils.GroupL1":{__init__:[23,4,1,""],prox:[37,4,1,""],prox_factory:[37,4,1,""]},"copt.utils.HuberLoss":{__init__:[24,4,1,""],f_grad:[37,4,1,""],lipschitz:[37,2,1,""]},"copt.utils.L1Ball":{__init__:[25,4,1,""],lmo:[37,4,1,""],prox:[37,4,1,""]},"copt.utils.L1Norm":{__init__:[26,4,1,""],prox:[37,4,1,""],prox_factory:[37,4,1,""]},"copt.utils.LogLoss":{Hessian:[37,4,1,""],__init__:[27,4,1,""],f_grad:[37,4,1,""],lipschitz:[37,2,1,""],max_lipschitz:[37,2,1,""],partial_deriv:[37,2,1,""]},"copt.utils.SimplexConstraint":{prox:[37,4,1,""]},"copt.utils.SquareLoss":{__init__:[28,4,1,""],f_grad:[37,4,1,""],lipschitz:[37,2,1,""]},"copt.utils.TotalVariation2D":{__init__:[29,4,1,""],prox:[37,4,1,""]},"copt.utils.TraceBall":{__init__:[30,4,1,""],is_separable:[37,2,1,""],lmo:[37,4,1,""],prox:[37,4,1,""],prox_factory:[37,4,1,""]},"copt.utils.TraceNorm":{__init__:[31,4,1,""],is_separable:[37,2,1,""],prox:[37,4,1,""],prox_factory:[37,4,1,""]},copt:{datasets:[37,0,0,"-"],frank_wolfe:[37,0,0,"-"],minimize_APGD:[14,1,1,""],minimize_FW:[15,1,1,""],minimize_PDHG:[16,1,1,""],minimize_PFW_L1:[17,1,1,""],minimize_PGD:[18,1,1,""],minimize_SAGA:[19,1,1,""],minimize_SVRG:[20,1,1,""],minimize_TOS:[21,1,1,""],minimize_VRTOS:[22,1,1,""],proxgrad:[37,0,0,"-"],randomized:[37,0,0,"-"],splitting:[37,0,0,"-"],tv_prox:[37,0,0,"-"],utils:[37,0,0,"-"]}},objnames:{"0":["py","module","Python module"],"1":["py","function","Python function"],"2":["py","attribute","Python attribute"],"3":["py","class","Python class"],"4":["py","method","Python method"]},objtypes:{"0":"py:module","1":"py:function","2":"py:attribute","3":"py:class","4":"py:method"},terms:{"35th":[21,37],"67a9cf":2,"boolean":[14,15,16,18,19,20,21,22,37],"break":[19,20,37],"case":[5,37],"class":[23,24,25,26,27,28,29,30,31,37],"default":37,"float":[7,14,15,18,19,20,21,22,23,26,37],"function":[1,3,5,14,15,16,18,19,20,21,22,25,27,37],"import":[1,2,3,4,5,6,7,14,15,16,18,19,20,21,22,37],"int":[6,14,16,18,19,20,21,22,37],"return":[2,3,4,6,7,10,12,13,14,15,16,18,19,20,21,22,27,37],"true":[3,4,6,7,12,13,14,15,16,17,18,19,20,21,22,37],TOS:[4,6],The:[3,5,14,15,16,18,19,20,21,22,27,37],These:[33,37],With:[21,37],__call__:[],__doc__:6,__init__:[23,24,25,26,27,28,29,30,31],a_i:[19,20,22,37],aaron:[20,37],abov:[15,37],abs:[6,7,37],absolut:[25,26,37],acceler:[0,14,33,37],accept:[15,16,37],access:[14,15,18,19,34,37],account:5,accur:[23,24,25,26,27,28,29,30,31],achiev:[3,4,6],adapt:[4,7,15,21,37],adato:7,advanc:[19,20,37],after:4,aka:[30,31,37],algebra:37,algorithm:[2,5,14,15,16,18,19,20,21,22,37],all:0,all_beta:[3,4,6,7],all_trace_l:[3,4,6,7],all_trace_ls_tim:[4,6,7],all_trace_nol:[3,4,6,7],all_trace_nols_tim:[4,6,7],all_trace_pdhg:[4,6,7],all_trace_pdhg_nol:[4,6],all_trace_pdhg_nols_tim:[4,6],all_trace_pdhg_tim:[4,6,7],along:37,alpha:[2,14,16,17,19,20,21,22,23,24,25,26,27,28,29,30,31,37],alreadi:[2,34],also:37,altern:37,alvaro:37,amir:[14,18,37],analysi:[21,37],antonin:[16,37],api:[17,19,33,37],appear:37,append:[2,3,4,6,7],appendix:4,appli:37,applic:[14,16,18,21,37],arang:[2,3,4,5],arg:[21,37],argmin_:[15,20,22,37],argmin_x:37,argument:[15,16,18,21,37],arrai:[3,4,6,7,10,12,13,14,15,16,18,19,20,21,22,37],art:33,arxiv:[15,22,37],astyp:[6,7],asynchron:[20,22,37],attribut:[14,15,16,18,19,20,21,22,24,27,28,30,31,37],augment:[19,20,37],auto_examples_jupyt:0,auto_examples_python:0,averag:[19,20,37],ax1:2,ax2:2,axes:2,axi:[2,7],b_i:[19,20,22,27,37],bach:[20,37],backtrack:[1,2,3,4,6,7,14,15,16,17,18,21,37],backtracking_factor:[14,18,21,37],ball:[17,25,37],barbero:37,barrier:[19,20,37],base:[14,18,37],bbox_to_anchor:[3,6],beck:[14,18,37],below:[19,20,22,37],berkelei:37,beta:[3,4,6,7,16,20,37],better:37,between:[4,5],bianp:[27,37],binari:[10,12,13,37],blck:6,block:[4,6,23,37],blur:7,blur_matrix:7,bold:[1,5],bool:[10,12,13,19,20,22,37],bottom:[3,4,6,7],bound:2,bridg:37,c_prox_tv2d:37,call:[],callabl:[14,15,16,18,21,27,37],callback:[1,2,3,4,5,6,7,14,15,16,17,18,19,20,21,22,37],can:[19,20,21,22,37],casotto:[22,37],categor:33,caus:[14,15,16,18,19,20,21,22,37],cb_adato:7,cb_apgd:1,cb_pdhg:[4,7],cb_pdhg_nol:4,cb_pgd:1,cb_saga:5,cb_svrg:5,cb_to:[3,4,6,7],cb_tosl:[3,4,6],cdot:[28,37],center:[4,7],chambol:[16,37],chandra:37,chang:[17,19,37],check:[10,12,13,37],cjlin:[10,12,13,37],classif:[2,10,12,13,37],click:[1,2,3,4,5,6,7],clip:2,cmap:[6,7],code:[0,1,2,3,4,5,6,7],coeffici:[18,37],color:2,column:37,come:[27,37],commun:[14,18,37],compact:[15,37],comparison:[1,3,4,5,7],complex:37,composit:[16,19,20,37],comput:[3,4,5,6,7,37],condat:[16,37],confer:[21,37],constant:[2,15,26,37],constat:[23,37],construct:[1,2,3,5],contain:[33,37],content:38,conveni:34,converg:[1,16,19,20,22,37],convex:[14,15,16,18,20,37],copi:[],copt:[1,2,3,4,5,6,7],correl:4,cov:6,creat:4,criteo:37,criterion:[19,20,22,37],csie:[10,12,13,37],csr:[10,12,13,37],current:[15,18,37],d_t:2,damek:[21,37],data:[3,4,6,7,19,20,22,37],dataset:[1,2,4,5,20,38],davi:[21,37],debug:[19,20,22,37],def:[2,3,4,6,7],defazio:[20,37],defin:[2,15,27,28,34,37],delta:[24,37],denois:37,denot:37,densiti:3,depend:33,deploy:33,deprec:37,deriv:[20,22,27,28,37],derivatives_logist:[27,37],descent:[0,14,18,33,37],describ:[14,15,16,18,19,20,21,22,37],descript:[14,15,16,18,19,20,21,22,37],dev:[],diff:7,differ:[3,4,6,7,33],differenti:[14,15,37],dimens:37,dimension:[29,37],direct:37,disproportion:2,doe:37,dot:[3,4,6,7,27,37],dougla:37,download:[0,1,2,3,4,5,6,7,10,12,13,37],draft:[27,37],dual:[7,16,33,37],duchi:37,duchisishch08:37,dykstra:37,each:[14,16,18,21,37],easi:33,easili:37,edg:33,edu:[10,12,13,37],ef8a62:2,effect:0,effici:37,eigsh:2,ellipsi:[],emphasi:33,enter:3,enumer:[3,4,6,7],epsilon:6,equal:[25,37],ergod:[16,37],estim:[0,15,19,20,21,22,37],euclidean:[28,37],euclidean_proj_l1bal:37,euclidean_proj_simplex:37,evalu:[1,5,27,28,37],evolv:2,exact:2,exact_l:2,exampl:[1,2,3,4,5,6,7,18,37],exist:37,exit:[14,15,16,18,19,20,21,22,37],expect:33,experi:4,experiment:[17,19,37],extra:[19,20,21,22,37],eye:6,f_deriv:[19,20,22,37],f_grad:[1,2,3,4,6,7,14,15,16,17,18,21,37],f_l:2,fabian:[15,19,20,21,22,37],face:7,fals:[1,3,4,6,7,15,16,18,20,21,37],fast:[20,37],fatra:[22,37],featur:[2,3,4,6,17,37],few:33,fig:[2,3,4],figlegend:[3,4,6,7],file:[10,12,13,37],first:[2,4,16,37],fit_transform:4,flag:[14,15,16,18,19,20,21,22,37],fmin:[1,3,4,5,6,7],focu:2,follow:34,fontweight:[1,5],form:[14,15,16,18,19,20,21,22,37],found:[10,12,13,37],frac:[27,28,37],frameon:[3,4,6,7],franci:[20,37],frank:[2,15,33,37],frank_wolf:38,free:[15,37],freq:37,from:[2,3,4,6,7,14,16,18,19,20,21,22,27,37],full:[1,2,3,4,5,6,7,12,37],fuse:37,fusedlasso:37,g_prox:7,galleri:[0,1,2,3,4,5,6,7],gamma:[2,37],gaussian_filt:7,gauthier:[21,37],gcf:[3,4,6,7],gener:[0,1,2,3,4,5,6,7,19,20,22,33,37],get_max_lipschitz:37,gidel:[21,37],given:[15,19,20,22,37],googl:[],gradient:[0,5,7,14,15,16,18,19,20,21,22,33,37],grai:7,gray_r:6,grid:[1,2,3,4,5,6,7],ground:3,ground_truth:[3,4],group:[0,18,23,37],groupl1:[3,4,37],guess:[14,15,16,18,21,37],h_lipschitz:[4,6,7,21,37],h_prox:7,handl:2,has:[20,37],have:[2,14,15,18,19,20,22,27,37],help:[23,24,25,26,27,28,29,30,31],here:[1,2,3,4,5,6,7],hessian:[2,27,37],high:37,higher:[20,22,37],home:[],how:2,howev:[34,37],html:[10,12,13,27,37],http:[10,12,13,27,37],huber:[24,37],huberloss:[6,37],hybrid:[7,16,33,37],icml:[15,37],ieee:37,imag:[7,11,37],img:7,implement:[3,5,20,33,37],improv:[1,20,37],imres:7,imshow:[6,7],increment:[20,37],indexerror:[],indic:[14,15,16,18,19,20,21,22,25,37],infin:[25,37],inform:[19,20,37],init_lipschitz:37,initi:[14,15,16,18,21,23,24,25,26,27,28,29,30,31,37],input:[15,27,37],insid:[16,37],instanti:2,integ:[],intern:[21,37],interpol:[6,7],involv:[16,37],ipynb:[1,2,3,4,5,6,7],is_separ:37,iter:[2,3,4,5,6,7,14,15,16,18,21,37],its:[3,15,19,21,33,37],jaggi:[15,37],jduchi:37,john:37,journal:[16,37],julien:[19,20,37],jupyt:[0,1,2,3,4,5,6,7],kdd10:37,kdd12:37,kdd2010:37,kdd2012:37,kilian:[22,37],known:[16,21,37],l1_ball:2,l1ball:[2,37],l1norm:[5,6,37],label:[1,2,4,5,10,12,13,27,37],labelcolor:2,lacost:[19,20,37],lambda:[3,4,5,6,7],langl:[15,37],larg:[2,33],lasso:[0,18,23,37],last:2,laurent:[16,37],learn:[21,37],least:4,leblond:[19,20,37],legend:[1,5],len:[2,4,5,6],leq:[27,37],less:[25,37],letter:37,level:[14,16,18,19,20,21,22,37],librari:33,libsvm:[10,12,13,37],libsvmtool:[10,12,13,37],like:[14,15,16,17,18,19,20,21,37],linalg:[2,6,7],line:[2,3,4,6,14,18,21,37],linear:[15,16,25,37],linearli:[19,37],linearoper:2,lipschitz:[1,2,3,4,6,7,15,37],lipschitzian:[16,37],list:[23,37],lmo:[2,15,25,37],load:[11,37],load_covtyp:37,load_criteo:37,load_img1:37,load_kdd10:37,load_kdd12:37,load_madelon:37,load_npz:7,load_rcv1:37,load_url:37,loc:[3,6],local:[],log:[1,3,4,5,6,7,27,37],logist:[1,5,27,37],logloss:[1,2,4,5,37],logspac:4,loss:[3,4,6,7,14,19,23,24,27,28,37],low:0,lower:[4,7],ls_sol:2,machin:[21,37],madelon:37,make:4,make_classif:2,mani:37,map:[19,20,22,37],marc:[14,18,37],marker:[3,4,6,7],markers:[3,4,6,7],markeveri:[3,4,6,7],martin:[15,37],mathcal:[15,37],mathemat:[16,33,37],matplotlib:2,matri:37,matrix:[0,4,10,12,13,16,37],mattia:[22,37],matvec:2,max:[4,7,37],max_act:37,max_it:[2,3,4,5,6,7,14,15,16,17,18,19,20,21,22,29,37],max_iter_backtrack:[14,18,21,37],max_iter_l:[16,37],max_lipschitz:[5,37],maximum:[14,16,18,19,20,21,22,37],maxit:[6,7],md5:[10,12,13,37],md5_check:[10,12,13,37],member:[19,20,22,37],messag:[14,15,16,18,19,20,21,22,37],method:[2,5,15,16,19,20,21,22,23,24,25,26,27,28,29,30,31,33,37],might:[19,20,22,37],million:37,min:[1,3,4,5,6,7],min_:[25,37],min_w:37,minim:[15,37],minimize_apgd:[1,37],minimize_fw:[2,37],minimize_pdhg:[4,7,37],minimize_pfw_l1:37,minimize_pgd:[1,3,37],minimize_saga:[5,37],minimize_scalar:2,minimize_svrg:[5,37],minimize_to:[4,6,7,37],minimize_vrto:37,minimize_x:[14,16,18,19,21,37],minu:[3,4,6,7],minut:[1,2,3,4,5,6,7],misc:7,model:4,modul:38,modular:[33,37],most:[],multidimension:37,multipli:[5,6,23,26,37],multivariate_norm:6,n_col:[7,11,37],n_featur:[1,2,3,4,5,6,7,17,18,37],n_job:[20,22,37],n_row:[7,11,37],n_sampl:[1,2,3,4,5,6,7,19,20,22,37],ncol:[3,4,6,7],ndarrai:[16,19,20,22,37],ndimag:7,nearest:[6,7],net:[27,37],neural:[19,20,37],newaxi:[],nip:[19,20,37],noisi:7,non:[16,20,21,34,37],none:[3,4,6,7,14,15,16,17,18,19,20,21,22,37],nonsmooth:[19,20,22,37],nonzero:3,norm:[5,19,20,22,26,28,29,30,31,37],note:[15,37],notebook:[0,1,2,3,4,5,6,7],npz:7,ntu:[10,12,13,37],nuclear:[30,31,37],number:[2,5,14,16,18,19,20,21,22,37],numpi:[1,2,3,4,5,6,7,10,12,13,37],object:[3,4,5,6,7,14,15,16,18,19,20,21,22,37],often:37,one:37,onli:[10,12,13,15,16,21,37],onto:[30,37],oper:[3,4,7,14,16,18,19,21,22,33,34,37],opt:[19,20,22,33,37],optim:[1,2,3,5,14,15,16,18,19,20,21,22,37],optimis:37,optimizeresult:[14,15,16,18,19,20,21,22,37],optimum:[3,4,6,7],option:[14,15,16,18,19,20,21,22,37],oracl:[15,37],order:[16,37],org:37,origin:[20,37],other:[14,15,16,18,19,20,21,22,37],otherwis:[2,25,37],out:[2,3,4,6,7],out_img:[3,4,6,7],output:[14,16,18,21,37],over:[2,25,37],overlap:0,own:34,packag:38,pairwis:[17,33,37],parallel:[19,20,37],paramet:[3,4,6,7,10,12,13,14,15,16,18,19,20,21,22,23,26,37],parametr:[19,37],partial_deriv:[5,37],pass:[19,20,21,22,37],pdf:37,pdhg:4,pdhg_nol:4,pedregosa:[15,19,20,21,22,37],pen1:[22,37],pen2:[22,37],penalti:[23,37],perform:[14,18,21,27,33,37],pgd:3,pgd_l:3,plot:[1,2,3,4,5,6,7,19,20,22,37],plot_acceler:1,plot_fw_steps:2,plot_group_lasso:3,plot_nol:[3,4,6],plot_overlapping_group_lasso:4,plot_pdhg:[4,7],plot_pdhg_nol:4,plot_saga_vs_svrg:5,plot_sparse_nuclear_norm:6,plot_to:[3,4,6,7],plot_tos_nol:7,plot_tv_deblur:7,plt:[1,2,3,4,5,6,7],pock:[16,37],point:[19,20,22,37],posit:37,possibl:[16,21,34,37],preprint:[15,22,37],preprocess:4,primal:[7,16,33,37],print:[3,4,6,7,19,20,22,37],problem:[1,3,5,14,15,16,18,19,20,21,22,25,37],procedur:[14,18,21,37],proceed:[21,37],process:[14,18,19,20,37],product:[27,37],program:[16,37],progress:[5,33],project:[10,12,13,15,30,37],prox:[3,4,5,6,14,18,19,20,37],prox_1:[16,21,22,37],prox_1_arg:[21,37],prox_1_factori:37,prox_2:[16,21,22,37],prox_2_factori:37,prox_factori:[5,37],prox_tv1d:37,prox_tv1d_col:[7,37],prox_tv1d_row:[7,37],prox_tv2d:37,proxgrad:38,proxim:[3,14,16,18,19,21,33,34,37],pseudo:[29,37],pure:33,purpos:33,pylab:[1,2,3,4,5,6,7],python:[0,1,2,3,4,5,6,7,33],rachford:37,radiu:37,rand:[1,3,5,6],randint:4,randn:[1,3,4,5,6,7],random:[1,3,4,5,6,7,38],random_st:2,rang:[3,4,6],rangl:[15,37],rank:0,rate:[16,37],ravel:[6,7],rcv1:[12,37],readi:34,recent:[],recoveri:[14,18,37],reduc:[5,22,33,37],reduct:37,refer:[5,14,15,16,18,19,20,21,22,27,37],regress:[1,5],regular:[0,4,5,6,18,37],rel:[3,4,6],remi:[19,20,37],repres:[14,15,16,18,19,20,21,22,37],res:[14,15,16,18,21,37],reshap:[6,7],respect:[20,37],result:[1,3,4,5,6,7,14,15,16,18,19,20,21,22,37],result_apgd:1,result_pgd:1,result_saga:5,result_svrg:5,return_gradi:[15,16,21,37],return_singular_vector:[6,7],revisit:[15,37],right:2,rough:33,routin:[15,37],row:37,run:[1,2,3,4,5,6,7],safe_sparse_add:37,saga:[0,19,20,22,33,37],same:[2,15,37],sampl:[2,11,37],scalabl:[19,20,37],scalar:37,scale:[3,4,7,33,37],scatterpoint:[3,4,6,7],scheme:[21,37],scipi:[2,3,6,7,10,12,13,14,15,16,18,19,20,21,22,33,37],script:[1,2,3,4,5,6,7],search:[2,3,4,6,14,18,21,37],second:[1,2,3,4,5,6,7],see:[14,15,16,18,19,20,21,22,23,24,25,26,27,28,29,30,31,37],seed:[1,3,4,5,6,7],self:[23,24,25,26,27,28,29,30,31],set:[4,15,21,37],set_titl:[3,4,6,7],set_xlabel:[2,3,4,6,7],set_xlim:[4,6,7],set_xtick:[3,4,6,7],set_ylabel:[2,3,4,6,7],set_ylim:[3,4,6,7],set_yscal:[3,4,6,7],set_ytick:[3,4,6,7],shai:37,shalev:37,shape:[2,6,7,29,30,31,37],share:2,sharei:[3,4,6,7],should:[15,16,27,37],show:[1,2,3,4,5,6,7],showcas:1,shwartz:37,sigma:[3,6,27,37],sigma_2:6,sigma_hat:6,sigmoid:[27,37],sign:4,signal:[14,18,37],signatur:[23,24,25,26,27,28,29,30,31],similar:33,simon:[19,20,37],simplex:37,simplexconstraint:37,sinc:2,singer:37,singl:[18,37],singular:[30,31,37],size:[0,3,4,6,7,15,18,19,20,21,22,37],sklearn:[2,4],slice:[],slightli:2,smooth:[16,21,34,37],snapshot:5,solut:[14,15,16,18,19,20,21,22,37],solv:[5,14,18,19,20,21,22,25,37],solver:[3,4,6,7],some:[3,4,6,19,20,22,33,37],sometim:[5,37],sort:37,sourc:[0,1,2,3,4,5,6,7,10,11,12,13,14,15,16,17,18,19,20,21,22,23,24,25,26,27,28,29,30,31,37],spars:[0,2,3,5,7,10,12,13,15,16,20,37],sphinx:[0,1,2,3,4,5,6,7],splinalg:[2,6,7],split:[4,7,16,21,22,33,38],sqrt:4,squar:[4,28,37],squareloss:[3,7,37],sra:37,standardscal:4,start:[14,18,19,20,21,22,37],state:33,step:[0,3,4,6,7,15,19,20,21,22,37],step_siz:[1,2,3,4,5,6,7,14,16,18,19,20,21,22,37],step_size2:[4,7,16,37],stepsiz:37,still:37,stochast:[5,19,20,33,37],stop:[19,20,22,37],strategi:0,strongli:[20,37],submodul:38,suboptim:[1,5],subplot:[2,3,4,6,7],subplots_adjust:[3,4,6,7],subset:[12,37],success:[14,15,16,18,19,20,21,22,37],successfulli:[14,15,16,18,19,20,21,22,37],sum:[5,7,25,26,30,31,37],sum_:[19,20,22,27,37],sum_i:[26,37],support:[20,37],suvrit:37,svd:[6,7],svrg:[0,33],synthet:6,system:[19,20,37],take:[10,12,13,15,18,37],teboul:[14,18,37],tend:2,term:[16,34,37],termin:[14,15,16,18,19,20,21,22,37],than:[20,22,25,37],theori:[16,37],thi:[4,5,10,12,13,15,16,17,19,20,21,22,23,25,33,37],thoma:[16,37],thread:[20,22,37],three:[4,7,21,22,33,37],threshold:6,through:[3,19,20,22,34,37],tick_param:2,tight_layout:2,time:[1,2,3,4,5,6,7],titl:[1,5],tmp1:7,tmp2:7,toi:2,tol:[1,3,4,5,6,7,14,15,16,17,18,19,20,21,22,29,37],toler:[3,4,6,19,20,22,37],tos:[4,6],tos_l:[4,6],total:[0,1,2,3,4,5,6,29,37],totalvariation2d:37,trace:[1,3,4,5,6,7,19,20,22,30,31,37],trace_func:[19,20,22,37],trace_fx:[1,5],trace_l:[3,4,6,7],trace_lipschitz:2,trace_nol:[3,4,6,7],trace_pdhg:[4,7],trace_pdhg_nol:4,trace_step_s:2,trace_tim:[4,6,7,19,20,22,37],trace_x:[3,4,6,7],traceback:[],tracebal:37,tracenorm:[6,37],track:5,truth:3,tushar:37,tv2d_linear_oper:37,tv_prox:[7,38],twinx:2,two:[5,37],type:[14,15,16,18,19,20,21,22,23,24,25,26,27,28,29,30,31,37],url:[10,13,37],use:[20,22,34,37],useful:[19,20,22,37],using:37,usr:[],util:[1,2,3,4,5,6,7,38],valid:[],valu:[3,4,6,7,10,12,13,14,15,16,18,21,25,26,27,30,31,37],varianc:[5,22,33,37],variant:[19,33,37],variat:[0,21,29,37],vector:[3,15,27,37],verbos:[3,4,6,7,14,15,16,17,18,19,20,21,22,37],verifi:[27,37],version:[10,12,13,37],vrto:[22,37],w_i:37,when:[15,16,27,37],whenev:[19,20,22,37],where:[14,15,16,18,19,21,27,28,37],whether:[10,12,13,14,18,19,20,21,22,37],which:[3,14,15,16,18,19,20,21,22,37],without:[3,4,6],wolf:[2,15,33,37],work:33,wotao:[21,37],written:33,www:[10,12,13,37],x_i:[26,37],xlabel:[1,5],xlim:[1,2,3,4,5,6,7],xxx:[14,18,37],yin:[21,37],ylabel:[1,5],ylim:[1,5],ymin:[1,5],yoram:37,your:34,yscale:[1,5],zero:[1,2,3,4,5,6,7],zip:0},titles:["Examples","Effect of acceleration in gradient descent","Step-size strategies for FW","Group Lasso regularization","Group lasso with overlap","SAGA vs SVRG","Estimating a sparse and low rank matrix","Total variation regularization","Datasets","Frank-Wolfe","copt.datasets.load_covtype","copt.datasets.load_img1","copt.datasets.load_rcv1","copt.datasets.load_url","copt.minimize_APGD","copt.minimize_FW","copt.minimize_PDHG","copt.minimize_PFW_L1","copt.minimize_PGD","copt.minimize_SAGA","copt.minimize_SVRG","copt.minimize_TOS","copt.minimize_VRTOS","copt.utils.GroupL1","copt.utils.HuberLoss","copt.utils.L1Ball","copt.utils.L1Norm","copt.utils.LogLoss","copt.utils.SquareLoss","copt.utils.TotalVariation2D","copt.utils.TraceBall","copt.utils.TraceNorm","Incremental methods","Welcome to copt!","Loss functions","Gradient-based methods","Proximal splitting","copt package","copt"],titleterms:{"function":34,acceler:1,algorithm:33,base:35,content:37,copt:[10,11,12,13,14,15,16,17,18,19,20,21,22,23,24,25,26,27,28,29,30,31,33,37,38],dataset:[8,10,11,12,13,37],descent:1,effect:1,estim:6,exampl:0,frank:9,frank_wolf:37,gradient:[1,35],group:[3,4],groupl1:23,huberloss:24,increment:32,l1ball:25,l1norm:26,lasso:[3,4],load_covtyp:10,load_img1:11,load_rcv1:12,load_url:13,logloss:27,loss:34,low:6,matrix:6,method:[32,35],minimize_apgd:14,minimize_fw:15,minimize_pdhg:16,minimize_pfw_l1:17,minimize_pgd:18,minimize_saga:19,minimize_svrg:20,minimize_to:21,minimize_vrto:22,modul:37,optim:33,overlap:4,packag:37,philosophi:33,proxgrad:37,proxim:36,random:37,rank:6,refer:4,regular:[3,7],saga:5,size:2,spars:6,split:[36,37],squareloss:28,step:2,strategi:2,submodul:37,svrg:5,total:7,totalvariation2d:29,tracebal:30,tracenorm:31,tv_prox:37,util:[23,24,25,26,27,28,29,30,31,37],variat:7,welcom:33,wolf:9}})

diff --git a/auto_examples/plot_fw_stepsize.html b/auto_examples/plot_fw_stepsize.html
@@ -111,11 +111,12 @@ evolves over time.</p>
 <span class="n">ax2</span><span class="o">.</span><span class="n">tick_params</span><span class="p">(</span><span class="n">axis</span><span class="o">=</span><span class="s1">&#39;y&#39;</span><span class="p">,</span> <span class="n">labelcolor</span><span class="o">=</span><span class="n">color</span><span class="p">)</span>
 
 <span class="n">fig</span><span class="o">.</span><span class="n">tight_layout</span><span class="p">()</span>  <span class="c1"># otherwise the right y-label is slightly clipped</span>
+<span class="n">plt</span><span class="o">.</span><span class="n">xlim</span><span class="p">(</span><span class="n">n</span><span class="p">,</span> <span class="n">n</span> <span class="o">+</span> <span class="nb">len</span><span class="p">(</span><span class="n">trace_step_size</span><span class="p">))</span>
 <span class="n">plt</span><span class="o">.</span><span class="n">grid</span><span class="p">()</span>
 <span class="n">plt</span><span class="o">.</span><span class="n">show</span><span class="p">()</span>
 </pre></div>
 </div>
-<p><strong>Total running time of the script:</strong> ( 0 minutes  12.952 seconds)</p>
+<p><strong>Total running time of the script:</strong> ( 0 minutes  12.423 seconds)</p>
 <div class="sphx-glr-footer class sphx-glr-footer-example docutils container" id="sphx-glr-download-auto-examples-plot-fw-stepsize-py">
 <div class="sphx-glr-download docutils container">
 <a class="reference download internal" download="" href="../_downloads/b9e6f1603bc53977c2c6d5ac207696ed/plot_fw_stepsize.py"><code class="xref download docutils literal notranslate"><span class="pre">Download</span> <span class="pre">Python</span> <span class="pre">source</span> <span class="pre">code:</span> <span class="pre">plot_fw_stepsize.py</span></code></a></div>

diff --git a/_downloads/b9e6f1603bc53977c2c6d5ac207696ed/plot_fw_stepsize.py b/_downloads/b9e6f1603bc53977c2c6d5ac207696ed/plot_fw_stepsize.py
@@ -71,5 +71,6 @@ ax2.plot(n + np.arange(len(trace_lipschitz)), trace_lipschitz, color=color)
 ax2.tick_params(axis='y', labelcolor=color)
 
 fig.tight_layout()  # otherwise the right y-label is slightly clipped
+plt.xlim(n, n + len(trace_step_size))
 plt.grid()
 plt.show()
